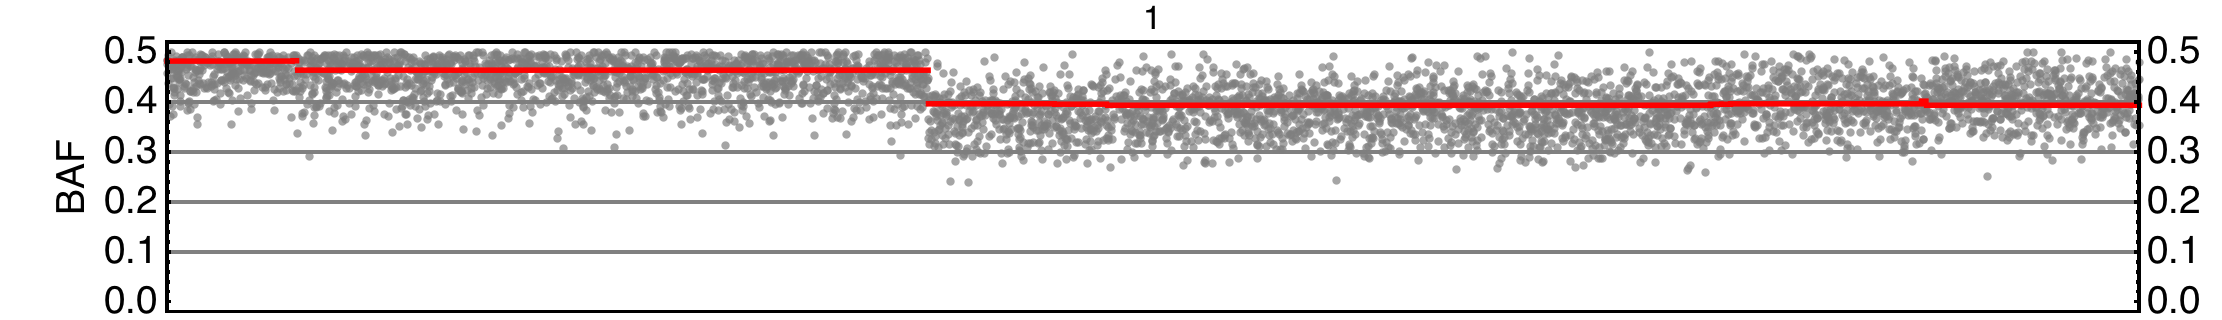
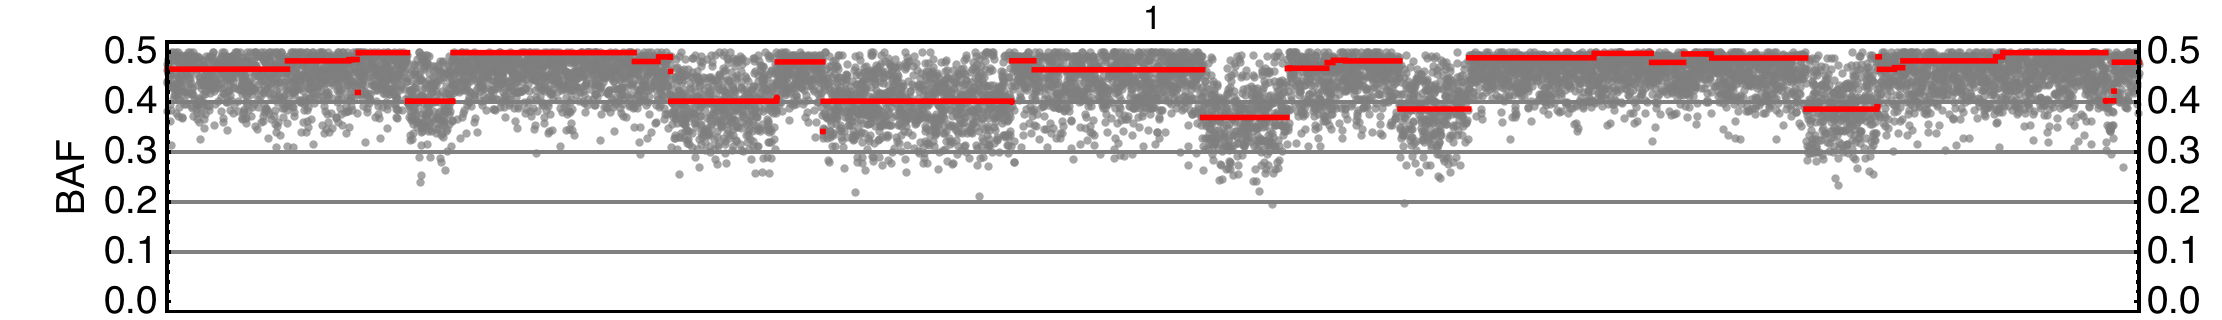
mod README

diff --git a/src/filterHD.cpp b/src/filterHD.cpp
@@ -179,7 +179,7 @@ int main (int argc, const char * argv[]){
     FILE * total_fp = fopen(buff,"w");
     fprintf(total_fp, "#sample site mean std-dev jump-prob");
     fprintf(total_fp, " posterior %.5e %.5e\n", myJD.myEmit->xmin, myJD.myEmit->xmax);
-    double gof=0, xobs=0,gofNorm=0;
+    double gof=0, xobs=0, gofNorm=0;
     for (int s=0; s < myJD.nSamples; s++){//get posterior distribution with the ML parameters
       myJD.get_posterior(s);
       double mstd = 0.0;
@@ -201,6 +201,21 @@ int main (int argc, const char * argv[]){
 	mstd += std[s][l];
 	if (opts.jumps==1){
 	  jumps[s][l] *= exp(myJD.pnojump[s][l]);
+	}
+	//goodness of fit...
+	if (mask==NULL || mask[s][l] == 1){
+	  xobs = double(myEmit.reads[t][s][l]) / double(myEmit.depths[t][s][l]);
+	  if (opts.reflect) xobs = min(xobs,1.0-xobs);	 
+	  double x=0,g=0,dg=0;
+	  double b = (myEmit.bias == NULL) ? 1.0 : myEmit.bias[s][l];
+	  for (int i=0; i<=uidx; i++){
+	    x = myEmit.xgrid[i] * b;
+	    dg = fabs(x - xobs) * post->data[i];
+	    if (i==0||i==uidx) dg *= 0.5;
+	    g += dg;
+	  }
+	  gof += g * myEmit.dx;
+	  gofNorm += 1.0;
 	}
       }
       mstd /= double(myJD.nSites[s]);
@@ -232,21 +247,6 @@ int main (int argc, const char * argv[]){
 	  }
 	}
 	fprintf(total_fp,"\n");
-	//goodness of fit...
-	if (mask==NULL || mask[s][l] == 1){
-	  xobs = double(myEmit.reads[t][s][l]) / double(myEmit.depths[t][s][l]);
-	  if (opts.reflect) xobs = min(xobs,1.0-xobs);	 
-	  double x=0,g=0,dg=0;
-	  double b = (myEmit.bias == NULL) ? 1.0 : myEmit.bias[s][l];
-	  for (int i=0; i<=uidx; i++){
-	    x = myEmit.xgrid[i] * b;
-	    dg = fabs(x - xobs) * post->data[i];
-	    if (i==0||i==uidx) dg *= 0.5;
-	    g += dg;
-	  }
-	  gof += g * myEmit.dx;
-	  gofNorm += 1.0;
-	}
       }
       gsl_matrix_free(myJD.gamma[s]);
       myJD.gamma[s] = NULL;

diff --git a/README.md b/README.md
@@ -41,16 +41,16 @@ jump-diffusion propagator. It can be used for scale-free smoothing,
 fuzzy data segmentation and data filtering. 
 
 ![cna gof](/images/cna.gof.png "CNA goodness of fit")
-![cna gof](/images/cna.post.png "CNA posterior")
 ![baf gof](/images/baf.gof.png "BAF goodness of fit")
-![cna gof](/images/baf.post.png "BAF posterior")
+![cna post](/images/cna.post.png "CNA posterior")
+![baf post](/images/baf.post.png "BAF posterior")
+![snv gof](/images/snv.gof.png "SNV goodness of fit")
 
 Visualization of the cloneHD output for the simulated data set. From
 top to bottom: (i) the bias corrected read depth data and the cloneHD
-posterior mean emission rate (ii) the total copy number posterior
-distribution for subclone 1 with f1=0.52 and subclone 2 with f2=0.07
-(iii) the BAF and (iv) the minor allele posterior. (Plots created with Wolfram
-[Mathematica](http://www.wolfram.com/mathematica/).)
+posterior mean emission rate (ii) the BAF (iii-iv) the total and minor copy number posterior
+distribution for subclone 1 with f1=0.52 and subclone 2 with f2=0.07 and (v) the SNV goodness of fit, where each SNV is assigned to a genotype according to the its posterior, and the observed SNV freequency is scaled by one half of the local mean total copynumber. 
+(All plots are created with Wolfram [Mathematica](http://www.wolfram.com/mathematica/).)
 
 # filterHD command line arguments
 
